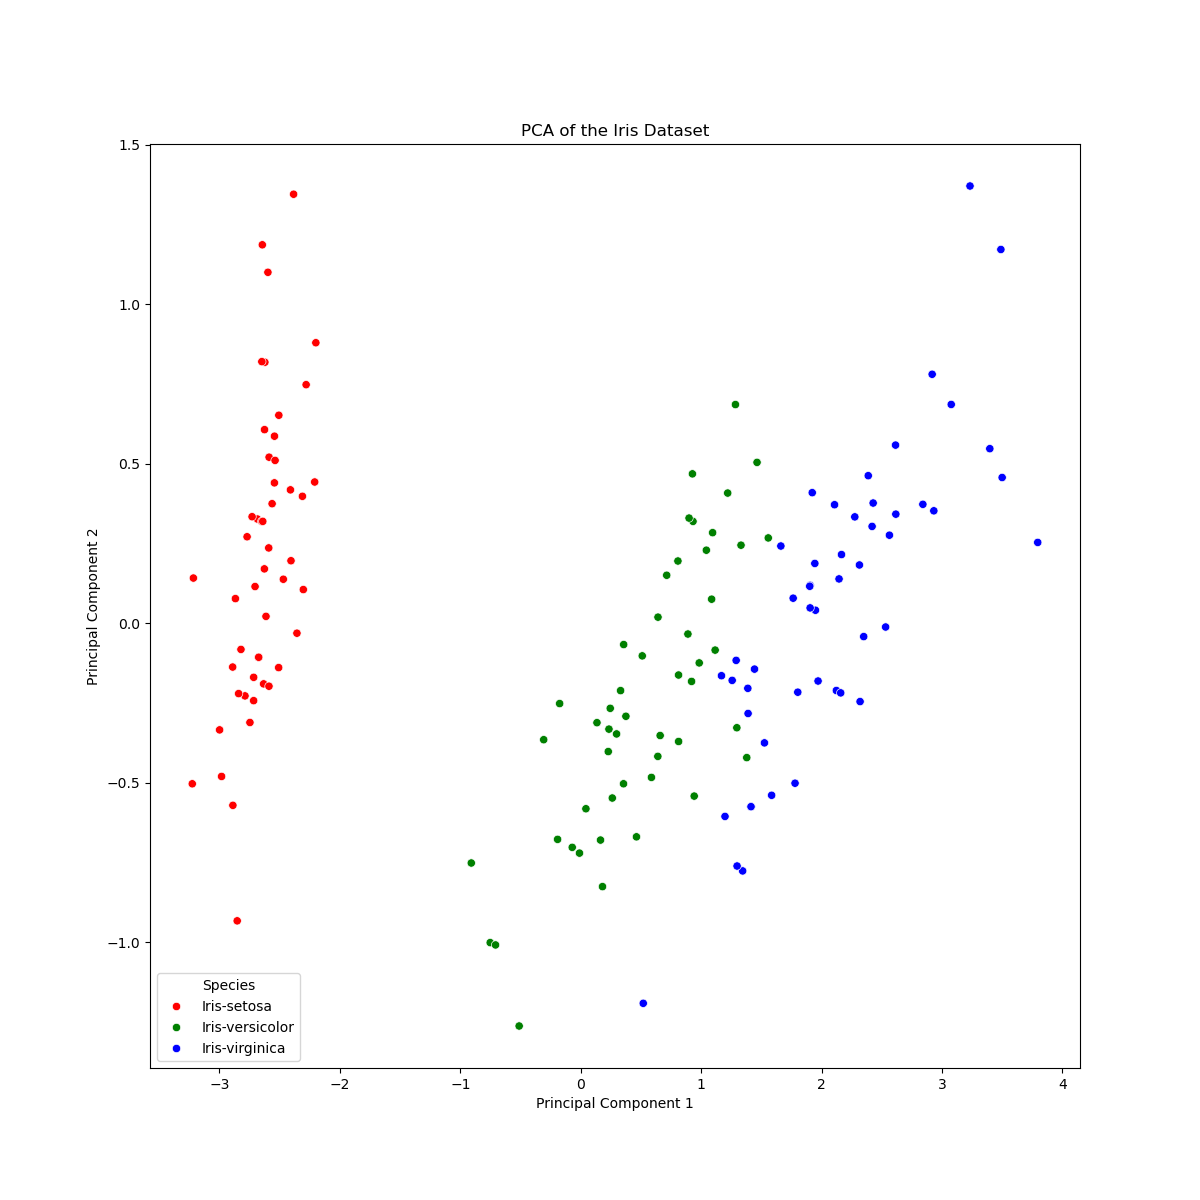
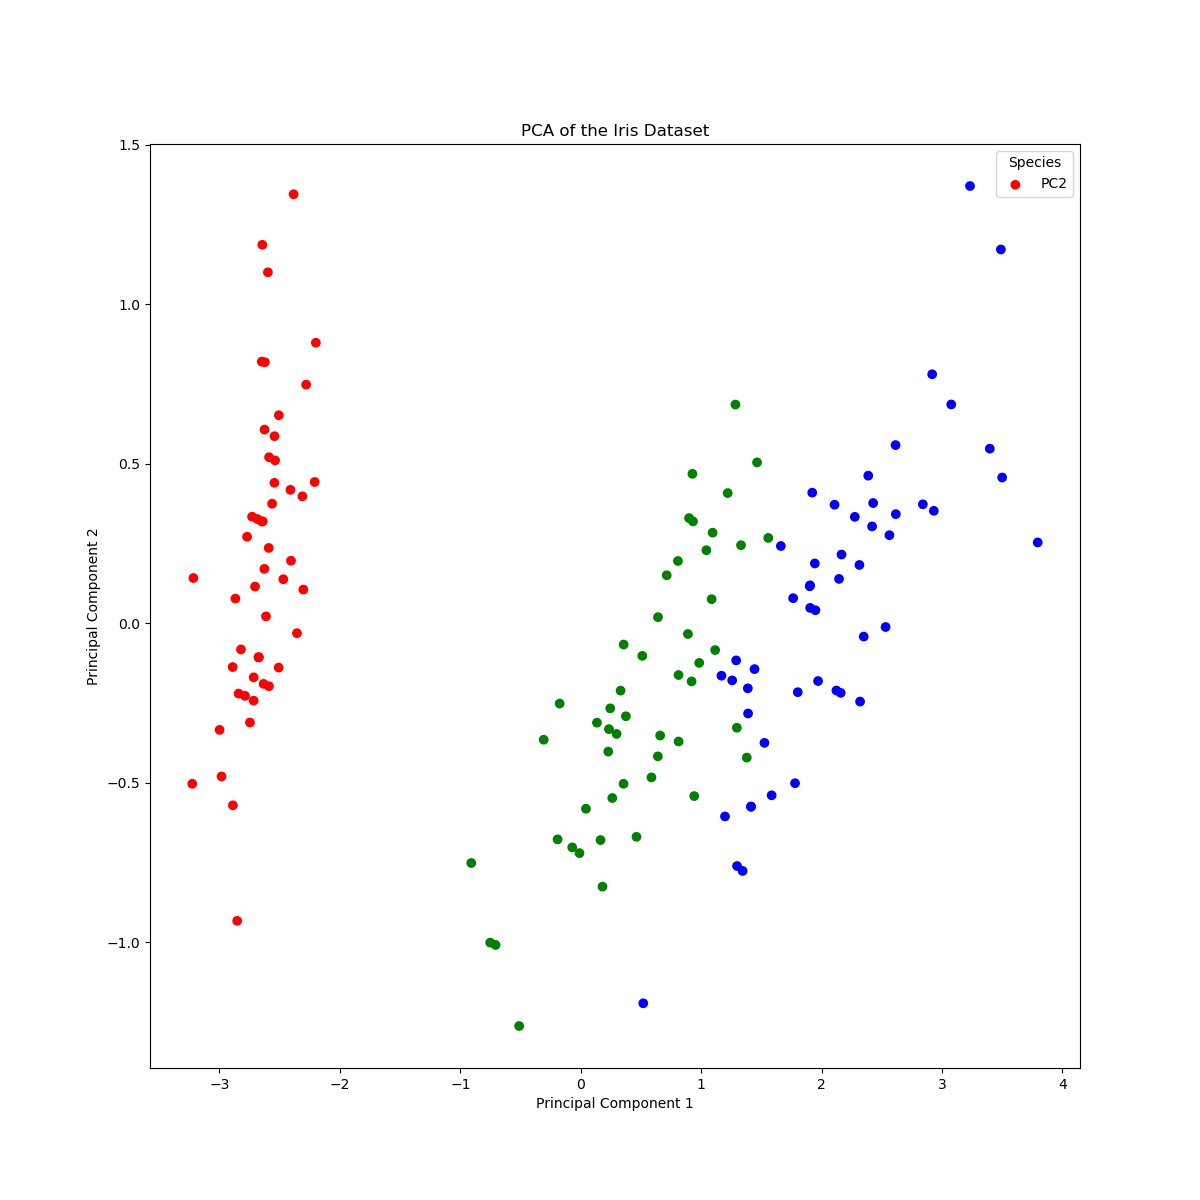
changed the PCA plot to use matplotlib

diff --git a/analysis.py b/analysis.py
@@ -385,9 +385,13 @@ def corrleation_matrix_heatmap(data, variables, variables_titles, species, forma
 
 def pca_analysis(data, variables, variables_titles, species, format_species, colors, labels, output_dir):
     '''
-    # PCA Analysis of the Iris Dataset
+    # PCA Analysis of the Iris Dataset 
+    - Purpose of PCA is to reduce the dimensionality of the data while preserving as much variance as possible.
+    - PCA is a technique used to identify patterns in data and express the data in such a way as to highlight their similarities and differences.
+    - For the Iris dataset, PCA is used to reduce the 4D data (sepal length, sepal width, petal length, petal width) to 2D data (PC1 and PC2). 
     # Reference: https://scikit-learn.org/stable/modules/generated/sklearn.decomposition.PCA.html
     # Reference: https://scikit-learn.org/stable/modules/generated/sklearn.preprocessing.StandardScaler.html
+    # Reference: https://www.geeksforgeeks.org/principal-component-analysis-pca/
 
     parameters:
         data (DataFrame): The input data to plot in heatmaps.
@@ -412,7 +416,13 @@ def pca_analysis(data, variables, variables_titles, species, format_species, col
 
     # plot the PCA results
     plt.figure(figsize=(12, 12)) # set the figure size
-    sns.scatterplot(data=pca_df, x='PC1', y='PC2', hue='species', palette=colors) # create a scatter plot of the PCA results
+    
+    # create a scatter plot of the PCA results
+    plt.scatter(data=pca_df, 
+                x='PC1', 
+                y='PC2', 
+                c=pca_df['species'].map(dict(zip(species, colors))) # map the species to the colors had to create a dict to map the species to the colors
+                ) 
     plt.title('PCA of the Iris Dataset') # add title to the figure
     plt.xlabel('Principal Component 1') # add x label to the figure
     plt.ylabel('Principal Component 2') # add y label to the figure
